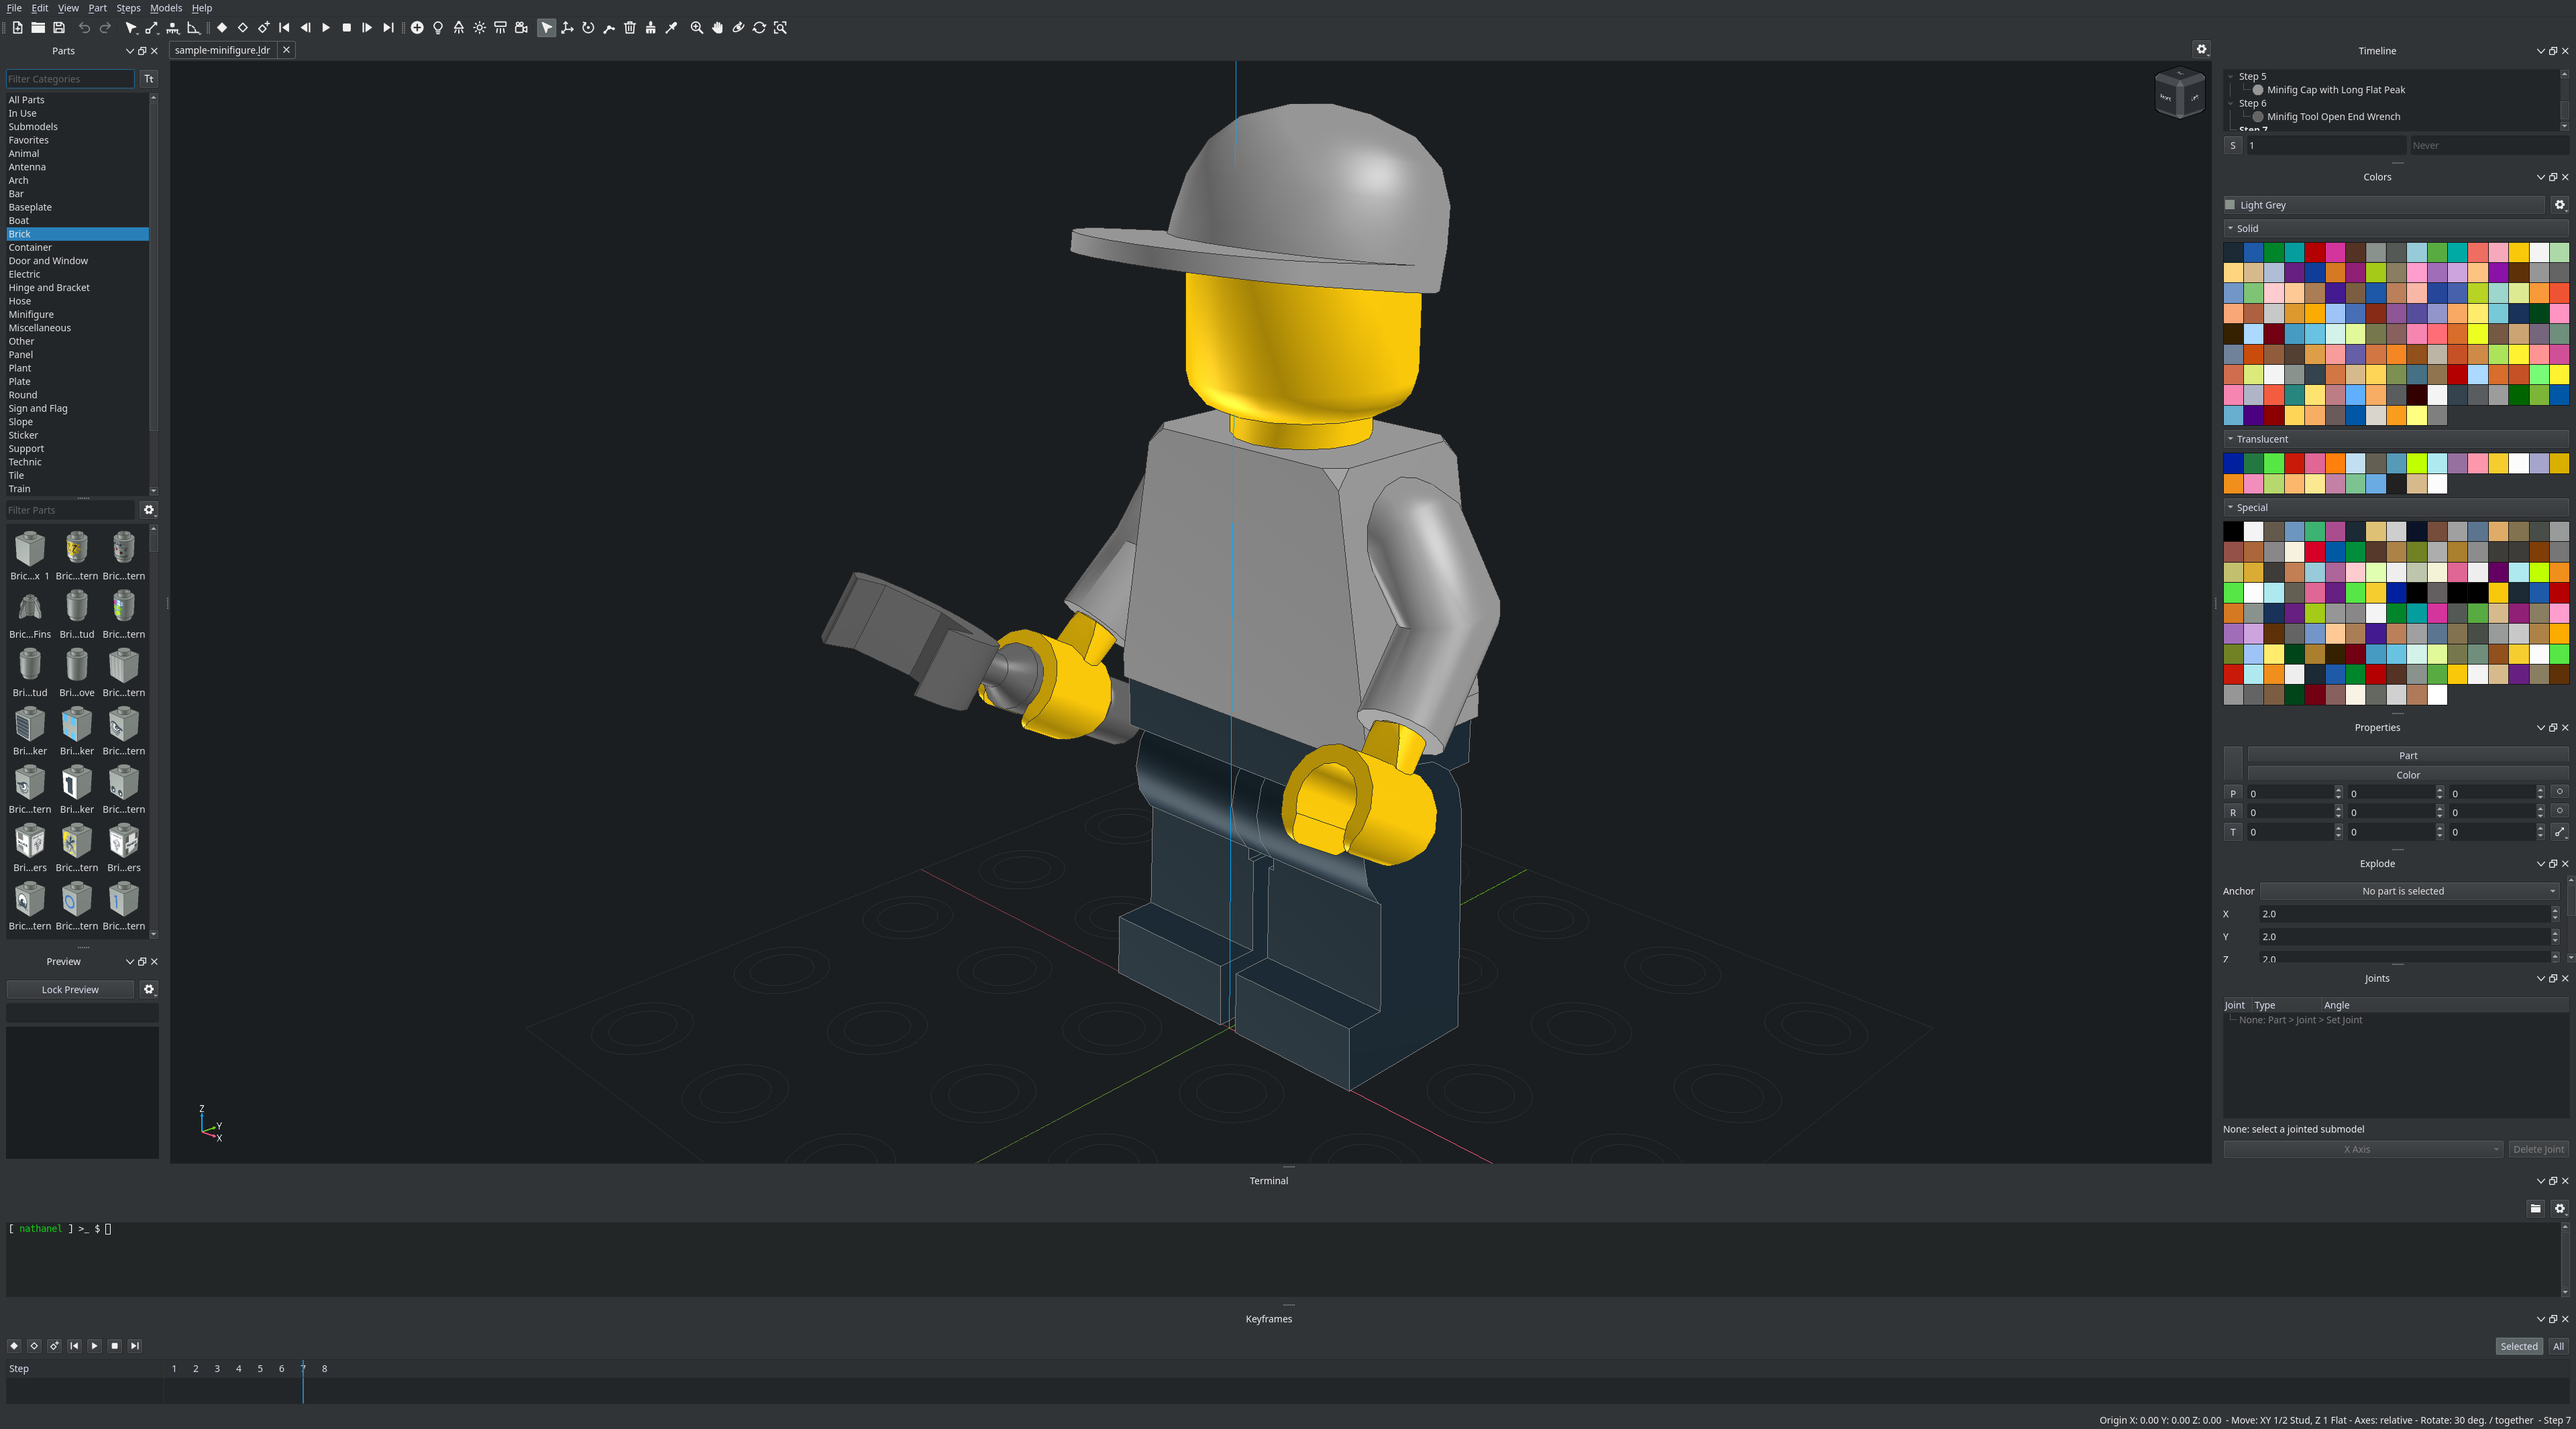
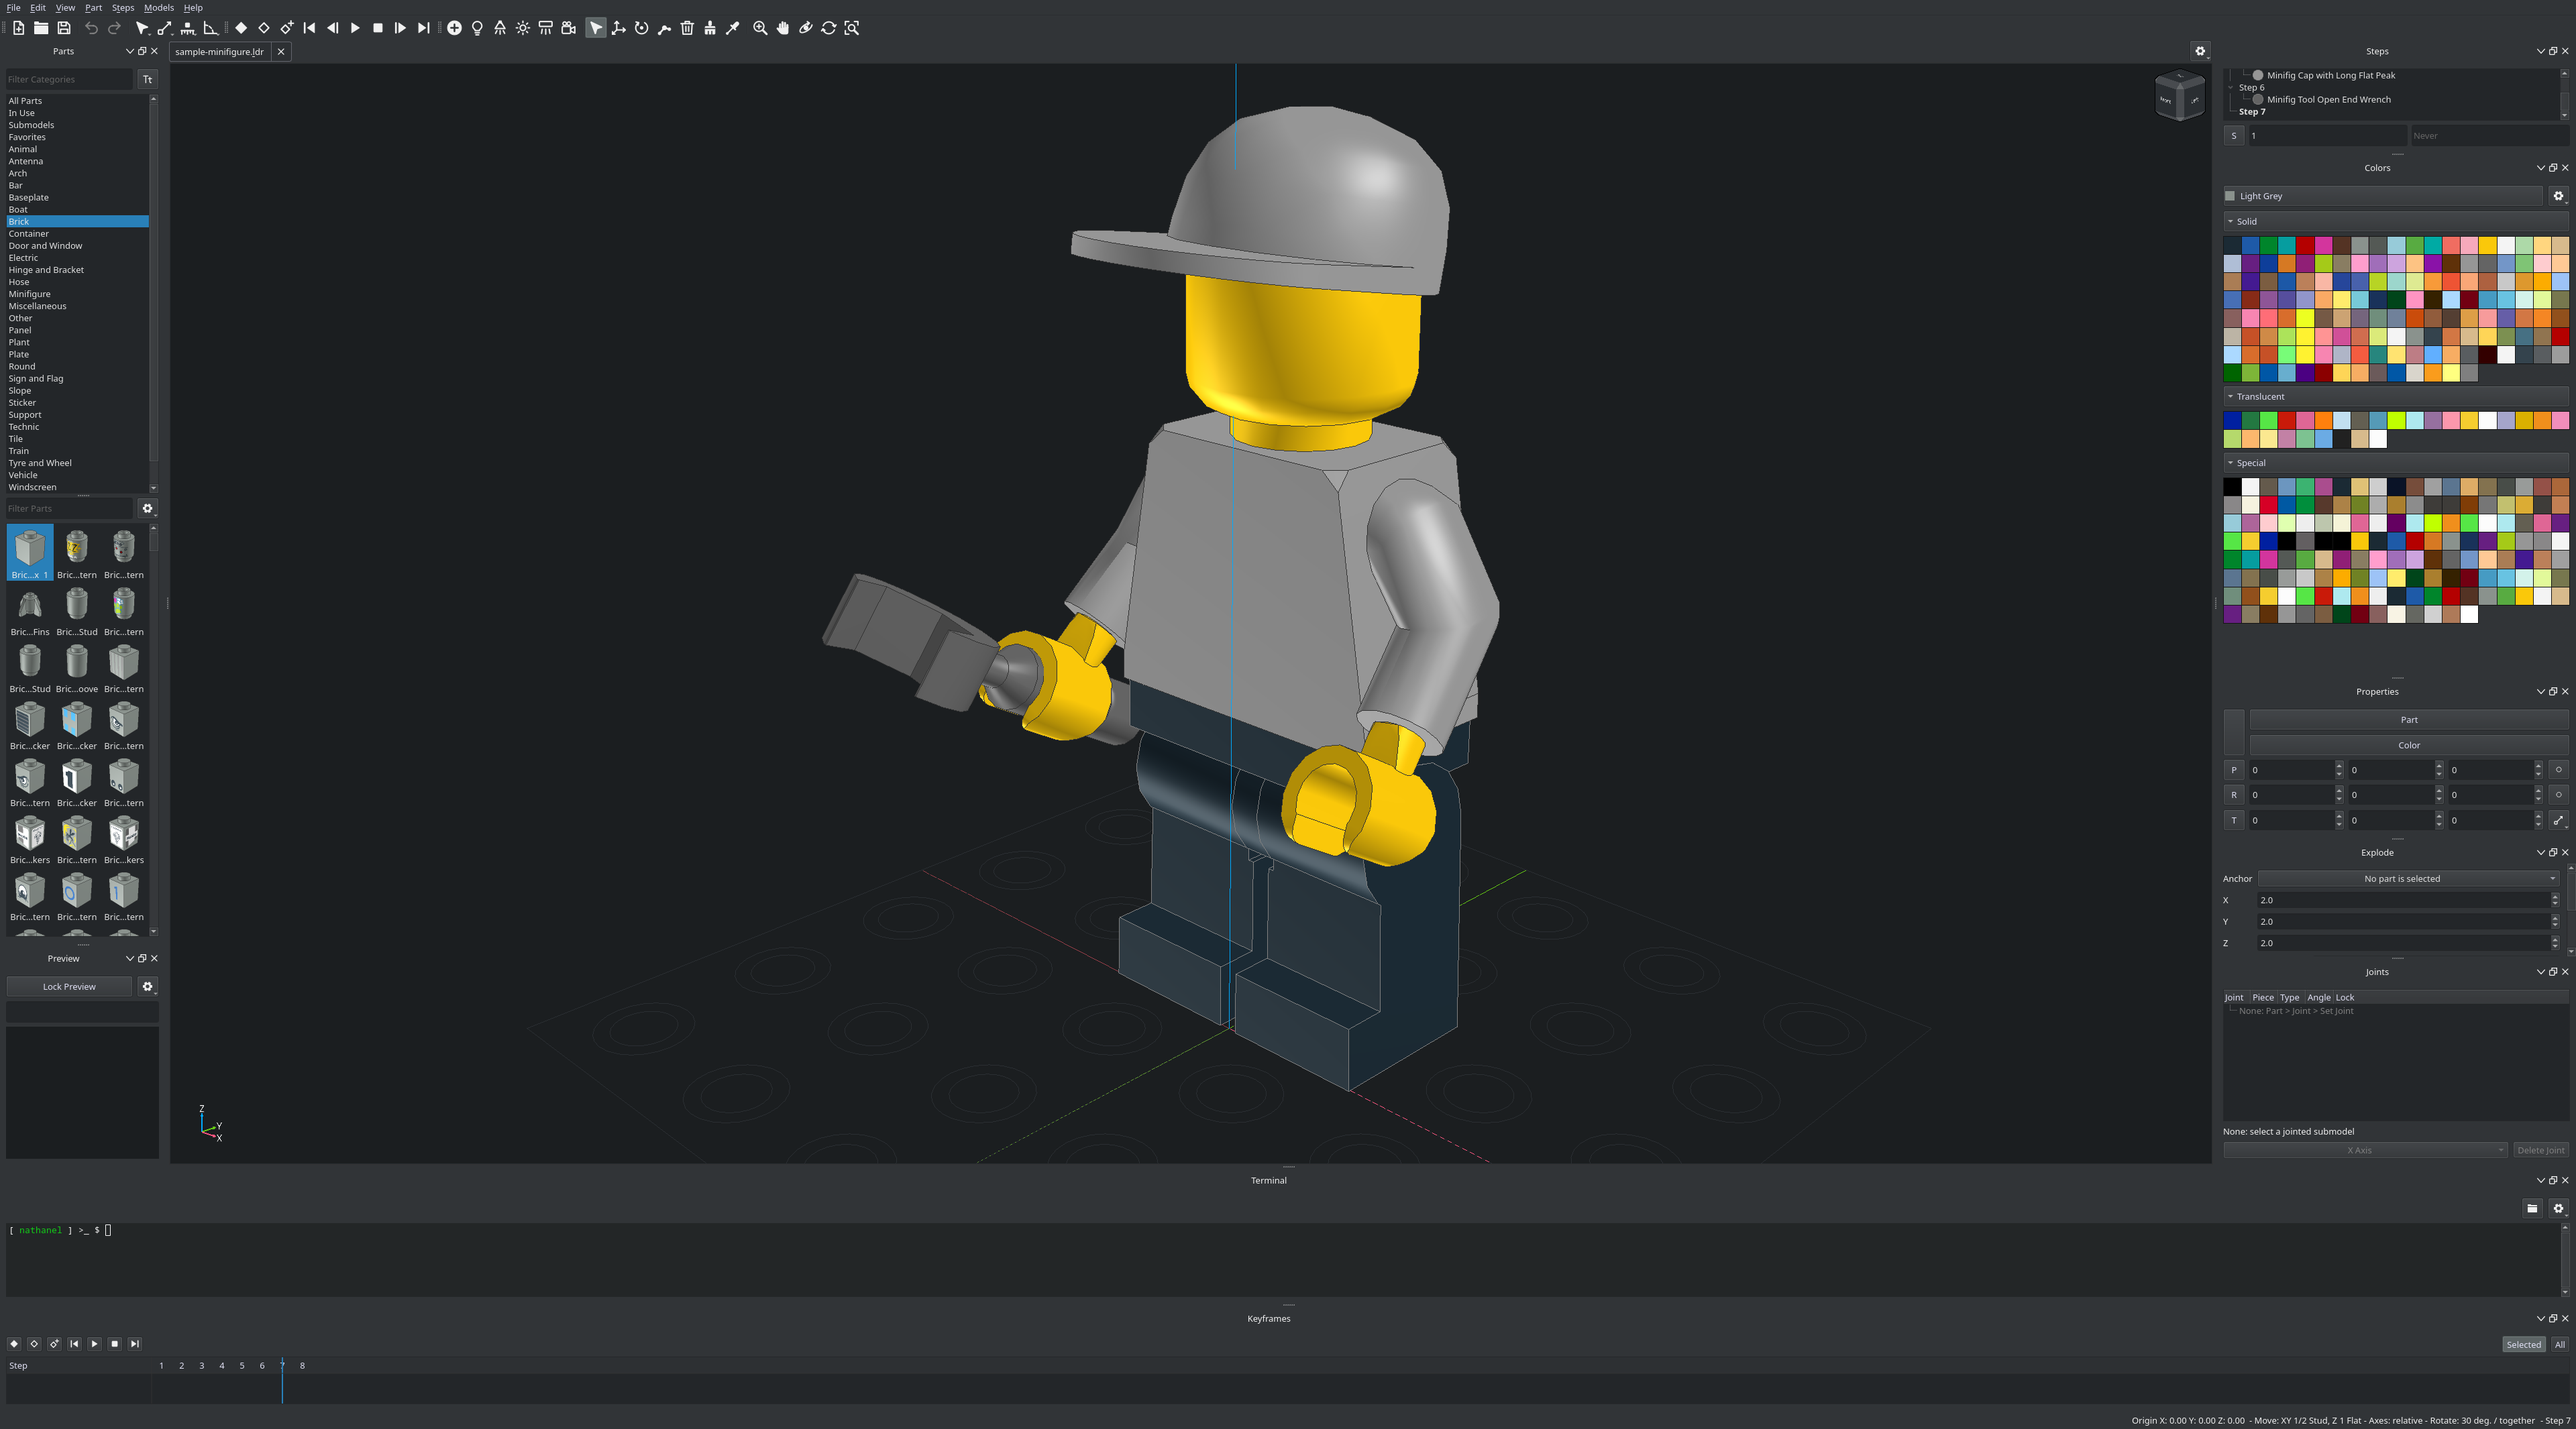
Code & Features Update

diff --git a/index.html b/index.html
@@ -1320,13 +1320,32 @@
 				<li><b>Context Menu.</b> Arrange the right-click menu of the model view the way you work: add, reorder, rename or group its commands, or reset it. Right clicking an unselected part selects it first.</li>
 				<li><b>Display colors.</b> Every color StudWorx draws with, from the background and grids to selections, highlights, axes and the instruction page guides, see-through where it makes sense.</li>
 				<li><b>Keyboard and Mouse.</b> Shortcuts recorded by clicking, importable and exportable. Commands that share a shortcut show in red, and assigning a taken shortcut asks before moving it.</li>
-				<li><b>Built-in Keys.</b> The end of the Keyboard list shows the keys that can&#x27;t be changed, greyed out, like F1 for <a href="#help">help</a> and Ctrl+click to add to the selection.</li>
 				<li><b><a href="#interface">Interface</a> and <a href="#instructions">Instructions</a>.</b> Interface holds every display color. Instructions holds the default page settings, the rulers and inspector, and the editor options.</li>
 				<li><b><a href="#rendering">Rendering</a> and <a href="#views">Views</a>.</b> Rendering sets how parts look, and Views sets what the model view shows around them, from the view cube to the grids.</li>
 				<li><b>Shortcut filters.</b> Filter commands and tools by name or shortcut, give each two shortcuts, and reset them to the defaults.</li>
+				<li><b>Built-in Keys.</b> The end of the Keyboard list shows the keys that can&#x27;t be changed, greyed out, listed below.</li>
 				<li><b>From LeoCAD.</b> Settings, part palettes and minifigure templates are copied from LeoCAD on the first start.</li>
 				<li><b>Categories.</b> Part categories turned on and off with a checkbox, edited, imported and exported.</li>
 			</ul>
+
+			<div class="table">
+				<table>
+					<thead>
+						<tr><th>Built-in keys</th><th>What they do</th></tr>
+					</thead>
+
+					<tbody>
+						<tr><td>F1</td><td><a href="#help">Help</a> for the panel under the pointer</td></tr>
+						<tr><td>Del</td><td>Delete what is selected where you work</td></tr>
+						<tr><td>Ctrl+Click</td><td>Add to the selection</td></tr>
+						<tr><td>Shift+Click</td><td>Remove from the selection</td></tr>
+						<tr><td>Ctrl or Shift+Wheel</td><td>Zoom faster or slower</td></tr>
+						<tr><td>Hold Ctrl</td><td>Snap rotation, keep the insert tool, free a locked joint</td></tr>
+						<tr><td>A to Z</td><td>Jump to a part in the parts list</td></tr>
+						<tr><td>Arrows, Home, End, Page Up, Page Down</td><td>Move through the parts list</td></tr>
+					</tbody>
+				</table>
+			</div>
 
 			<div class="gallery scroll">
 				<figure style="--width-image: 960; --height-image: 2034">
@@ -2043,6 +2062,9 @@ studworx/tools/studworx-install [prefix] [build directory]</code></pre>
 					<li>Keyboard <a href="#preferences">preferences</a>: a Built-in Keys group at the end lists the keys that can&#x27;t be changed, greyed out</li>
 					<li>Shortcuts: Delete removes only what is selected <a href="#where">where</a> you work: the joint in the Joints panel, the step in the <a href="#steps">Steps</a> panel, the picked keys in the Keyframes panel, the pointers, notices or blank page in the <a href="#instructions">instructions</a>, or the selected objects in the view; Del always deletes, listed under Built-in Keys in Keyboard preferences and can&#x27;t be given to another command</li>
 					<li>Steps panel: the Timeline panel is now the Steps panel, saved shortcuts and panel places carry over</li>
+					<li><a href="#panels">Panels</a>: the Poses panel keeps its place on every start, and a panel layout filled with Joints copies resets to the default once</li>
+					<li>Site: Preferences lists every built-in key and what it does</li>
+					<li>Site: Steps, Keyboard preferences, main window, lighting styles, projections, cutaways, wireframe, height grids, split <a href="#views">views</a> and Selected Part images retaken</li>
 					<li>Keyframes panel: click a diamond to pick it, Ctrl+click to add or take it out, Shift+click to take it out; picked keys light up and Delete removes them</li>
 					<li>Shortcuts: Ctrl+Shift+W, Exit Mode in the menus and Keyboard preferences, exits one mode per press, innermost first: a pick, joint mode, the cutaway, then in-place submodel editing; it keeps the selection</li>
 					<li>Shortcuts: Esc steps back the same way, clears the selection before leaving a mode, and now also steps out of in-place submodel editing</li>
@@ -2065,7 +2087,7 @@ studworx/tools/studworx-install [prefix] [build directory]</code></pre>
 					<li>Joints: parts grouped with a jointed submodel turn along with its joint, from the gizmo, the keys and the Joints tool</li>
 					<li>Shortcuts: Shift+I switches to Default Lights shading by default</li>
 					<li>Joints: in joint mode the Move and Rotate tools and their shortcuts act on the joint, like Move Joint and Rotate Joint</li>
-					<li><a href="#views">Views</a>: the rotate gizmo draws its axis circles all the way around, no longer cut in half</li>
+					<li>Views: the rotate gizmo draws its axis circles all the way around, no longer cut in half</li>
 					<li>Joints: editing a submodel in place no longer starts joint mode or joint move and rotate, joint mode only starts from a joint</li>
 					<li>Joints: a jointed submodel inside a group keeps its joint editing, moving and turning</li>
 					<li>Joints: Escape or a click away from the joints leaves joint mode and goes back to selecting parts</li>
@@ -2101,7 +2123,7 @@ studworx/tools/studworx-install [prefix] [build directory]</code></pre>
 					<li>Site: the page styles live in their own files under resources/css, and resources/css/logo.css picks each section&#x27;s logo, so a new or swapped logo shows without rebuilding the page</li>
 					<li>Translations: Traditional Chinese has about 1,900 more and better translations, from yoyomaimai</li>
 					<li>Translations: Traditional Chinese reads right for Startup, Origin, Author Line, Hip Accessory and Filter Parts</li>
-					<li>Site: Interface covers the window and <a href="#panels">Panels</a> the panels, with split views told once and showing or hiding panels moved to Panels</li>
+					<li>Site: Interface covers the window and Panels the panels, with split views told once and showing or hiding panels moved to Panels</li>
 					<li>Translations: every line in all nine languages was reviewed, the missing ones translated, and each language uses one word per meaning, the same words as its menus</li>
 					<li>Translations: snap sizes read as studs, plates and bricks in every language, and each property row letter matches its row name</li>
 					<li>Translations: Yes, No and the other dialog buttons follow the language picked in StudWorx</li>

diff --git a/source/application/sw_migration.cpp b/source/application/sw_migration.cpp
@@ -140,13 +140,21 @@ static void swMigrateRenamedToolbars()
 	{
 		{ QLatin1String("PiecesToolbar"), QLatin1String("PartsToolbar") },
 		{ QLatin1String("MinifigToolbar"), QLatin1String("MinifigureToolbar") },
-		{ QLatin1String("PosesToolbar"), QLatin1String("JointsToolbar") },
 		{ QLatin1String("TimelineToolbar"), QLatin1String("StepsToolbar") }
 	};
 
 	QSettings Settings;
 	const QByteArray OldState = Settings.value("MainWindow/State").toByteArray();
 	QByteArray State = OldState;
+
+	// drop layouts filled with joints copies
+
+	if (State.count(swSerializeName(QLatin1String("JointsToolbar"))) > 1)
+	{
+		Settings.remove("MainWindow/State");
+		Settings.sync();
+		return;
+	}
 
 	for (const auto& [OldName, NewName] : RenamedToolbars)
 		State.replace(swSerializeName(OldName), swSerializeName(NewName));

diff --git a/SITE.md b/SITE.md
@@ -465,8 +465,19 @@ Nine pages with lined up label and control columns, checkboxes included, each la
 - **Keyboard and Mouse.** Shortcuts recorded by clicking, importable and exportable. Commands that share a shortcut show in red, and assigning a taken shortcut asks before moving it.
 - **Shortcut filters.** Filter commands and tools by name or shortcut, give each two shortcuts, and reset them to the defaults.
 - **Delete.** Delete removes only what is selected where you work: a joint, a step, picked keys, a pointer or notice on a page, or parts in the view. Del always deletes and can't be changed, so it sits in Built-in Keys.
-- **Built-in Keys.** The end of the Keyboard list shows the keys that can't be changed, greyed out, like F1 for help and Ctrl+click to add to the selection.
+- **Built-in Keys.** The end of the Keyboard list shows the keys that can't be changed, greyed out, listed below.
 - **From LeoCAD.** Settings, part palettes and minifigure templates are copied from LeoCAD on the first start.
+
+| Built-in keys | What they do |
+| --- | --- |
+| F1 | Help for the panel under the pointer |
+| Del | Delete what is selected where you work |
+| Ctrl+Click | Add to the selection |
+| Shift+Click | Remove from the selection |
+| Ctrl or Shift+Wheel | Zoom faster or slower |
+| Hold Ctrl | Snap rotation, keep the insert tool, free a locked joint |
+| A to Z | Jump to a part in the parts list |
+| Arrows, Home, End, Page Up, Page Down | Move through the parts list |
 
 [//]: # (gallery scroll)
 

diff --git a/NOTICE.md b/NOTICE.md
@@ -6,6 +6,9 @@
   - Keyboard preferences: a Built-in Keys group at the end lists the keys that can't be changed, greyed out
   - Shortcuts: Delete removes only what is selected where you work: the joint in the Joints panel, the step in the Steps panel, the picked keys in the Keyframes panel, the pointers, notices or blank page in the instructions, or the selected objects in the view; Del always deletes, listed under Built-in Keys in Keyboard preferences and can't be given to another command
   - Steps panel: the Timeline panel is now the Steps panel, saved shortcuts and panel places carry over
+  - Panels: the Poses panel keeps its place on every start, and a panel layout filled with Joints copies resets to the default once
+  - Site: Preferences lists every built-in key and what it does
+  - Site: Steps, Keyboard preferences, main window, lighting styles, projections, cutaways, wireframe, height grids, split views and Selected Part images retaken
   - Keyframes panel: click a diamond to pick it, Ctrl+click to add or take it out, Shift+click to take it out; picked keys light up and Delete removes them
   - Shortcuts: Ctrl+Shift+W, Exit Mode in the menus and Keyboard preferences, exits one mode per press, innermost first: a pick, joint mode, the cutaway, then in-place submodel editing; it keeps the selection
   - Shortcuts: Esc steps back the same way, clears the selection before leaving a mode, and now also steps out of in-place submodel editing
